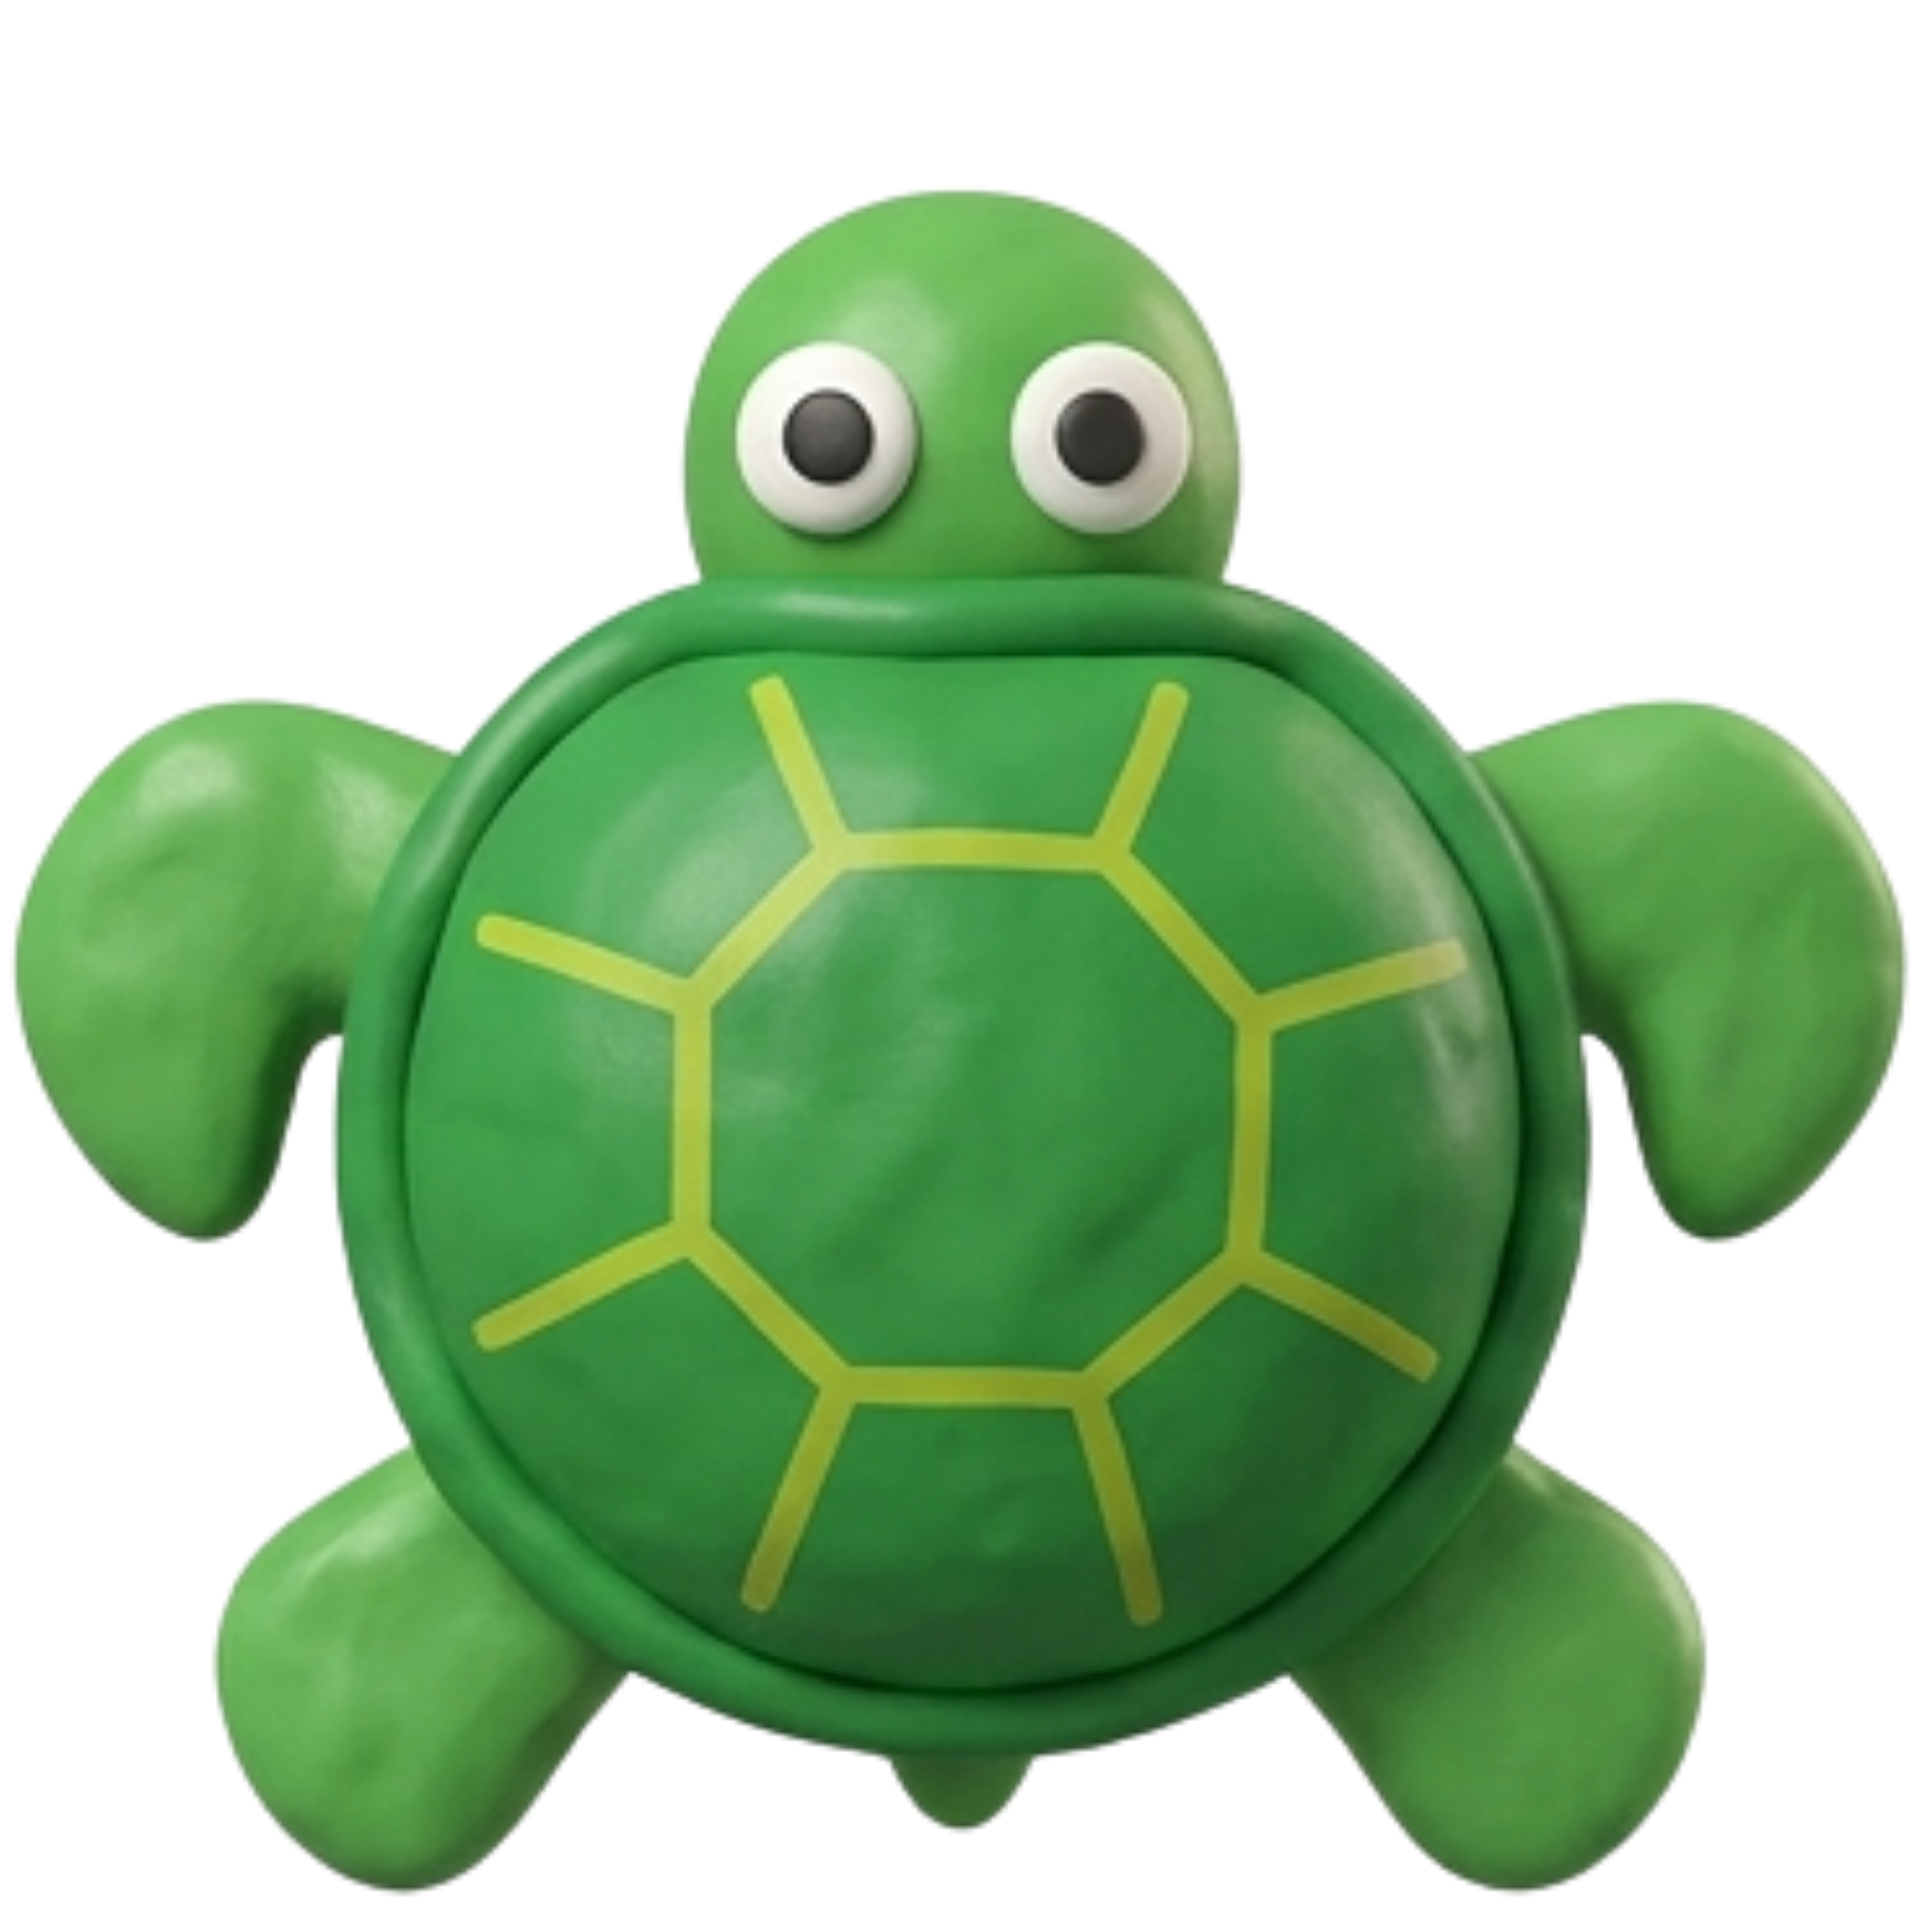
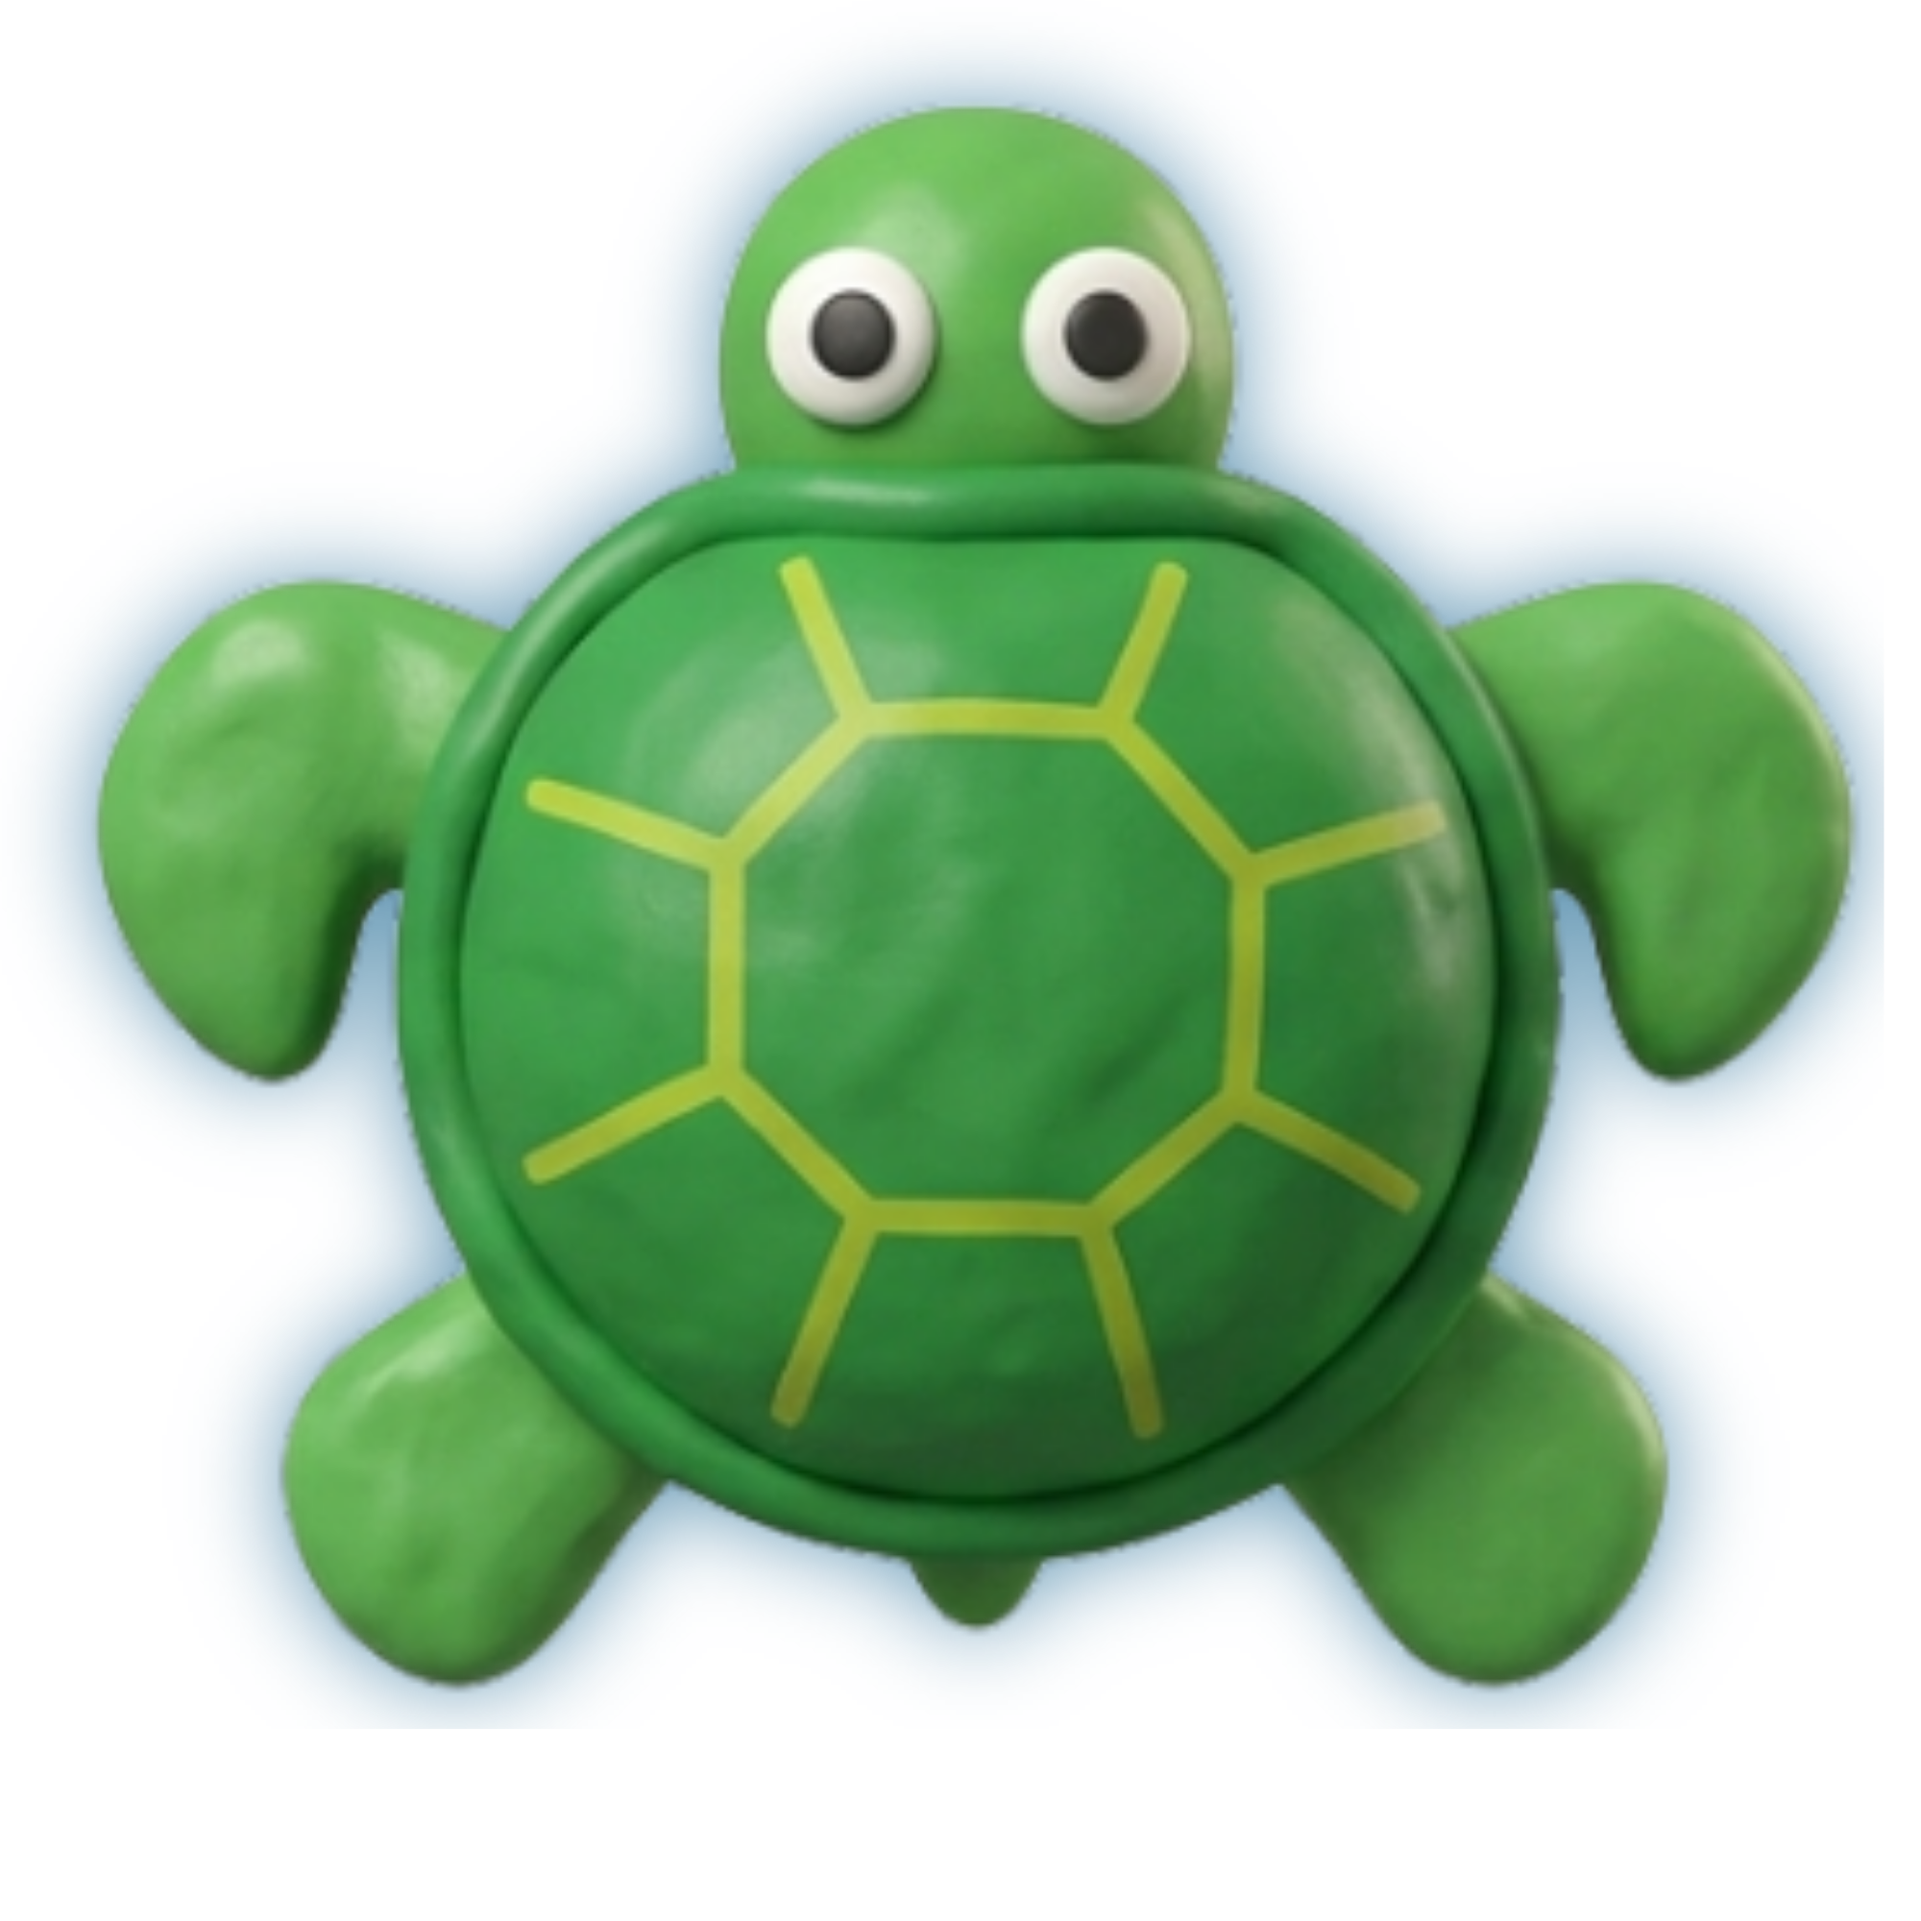
Limit render rate; tweak UI, difficulty
Introduce frame-skipping to throttle rendering (render_frame_count + FPS_LOCK) to reduce draw frequency. Adjust UI text and sizes: prompt font reduced; HUD labels changed from "Survival Time"/"HP" to "SCORE"/"HEALTH" and final message updated. Revise spawn/difficulty curve (new spawn_frequency calculation) and adjust base spawn timing; add small random render-angle jitter for bottles and lettuces to improve visual variety. Modify collision behavior to avoid immediately ending the game when hearts reach zero (game_over commented out). Also update sprite assets (images/plastic_2.png, images/turtle.png).

diff --git a/MAIN.py b/MAIN.py
@@ -18,11 +18,14 @@ TITLE = "TURTLE TURRET"
 CENTER_X = WIDTH // 2
 CENTER_Y = HEIGHT // 2
 
+render_frame_count = 1
+FPS_LOCK = 3  # Higher = choppier
+
 game_over = False
 game_started = False
 survival_time = 0
 spawn_timer = 0
-spawn_frequency = 90  
+spawn_frequency = 1000
 
 player = PlayerTurtle(CENTER_X, CENTER_Y)
 initialized = False
@@ -50,7 +53,12 @@ def get_cached_image(image_name, size=None):
     return processed_surf
 
 def draw():
-    global initialized
+    global initialized, render_frame_count
+    
+    if game_started and not game_over:
+        render_frame_count += 1
+        if render_frame_count % FPS_LOCK != 0:
+            return
     
     if not initialized:
         pygame.display.set_mode((WIDTH, HEIGHT)) 
@@ -65,7 +73,7 @@ def draw():
     
     if not game_started:
         screen.draw.text(TITLE, center=(CENTER_X, CENTER_Y - 40), fontsize=65, color="cyan")
-        screen.draw.text("PRESS SPACE TO POP UP", center=(CENTER_X, CENTER_Y + 30), fontsize=35, color="white")
+        screen.draw.text("PRESS SPACE TO POP UP", center=(CENTER_X, CENTER_Y + 30), fontsize=30, color="white")
         
     elif not game_over:
         for b in bubbles:
@@ -107,11 +115,11 @@ def draw():
         rect = rotated_image.get_rect(center=(player.x, player.y))
         screen.blit(rotated_image, rect)
             
-        screen.draw.text(f"Survival Time: {int(survival_time)}s", topleft=(30, 30), fontsize=35, color="white")
-        screen.draw.text(f"HP: {player.hearts} / 5", topright=(WIDTH - 30, 30), fontsize=35, color="pink")
+        screen.draw.text(f"SCORE: {int(survival_time)}s", topleft=(30, 30), fontsize=35, color="white")
+        screen.draw.text(f"HEALTH: {player.hearts} / 5", topright=(WIDTH - 30, 30), fontsize=35, color="pink")
     else:
         screen.draw.text("GAME OVER", center=(CENTER_X, CENTER_Y - 50), fontsize=60, color="red")
-        screen.draw.text(f"Final Survival Time: {int(survival_time)} Seconds", center=(CENTER_X, CENTER_Y + 10), fontsize=40, color="white")
+        screen.draw.text(f"Final SCORE: {int(survival_time)} Seconds", center=(CENTER_X, CENTER_Y + 10), fontsize=40, color="white")
         screen.draw.text("Press R to Restart", center=(CENTER_X, CENTER_Y + 70), fontsize=30, color="yellow")
 
 def update():
@@ -123,7 +131,8 @@ def update():
     survival_time += 1 / 60
     spawn_timer += 1
     
-    spawn_frequency = max(25, 90 - int(survival_time // 10) * 10)
+    ## DIFFICULTY CURVE SETTTNGS:
+    spawn_frequency = max(10, 45 - int(survival_time // 8) * 5)
     
     if spawn_timer >= spawn_frequency:
         spawn_timer = 0
@@ -146,11 +155,15 @@ def update():
             ripples.remove(ripple)
 
     for b in bubbles[:]:
-        b.update_position(bubbles)  # Pass array reference directly to fix bubble removal
+        b.update_position(bubbles)
     for bottle in bottles[:]:
         bottle.update_position()
+        if random.random() < 0.15:  
+            bottle.render_angle += random.randint(-3, 3)
     for lettuce in lettuces[:]:
         lettuce.update_position()
+        if random.random() < 0.15:  
+            lettuce.render_angle += random.randint(-3, 3)
 
     check_collisions()
 
@@ -234,7 +247,8 @@ def check_collisions():
             player.hearts -= 1
             bottles.remove(bottle)
             if player.hearts <= 0:
-                game_over = True
+                pass
+                #game_over = True
 
     for lettuce in lettuces[:]:
         dist_to_center = ((lettuce.x - CENTER_X)**2 + (lettuce.y - CENTER_Y)**2)**0.5
